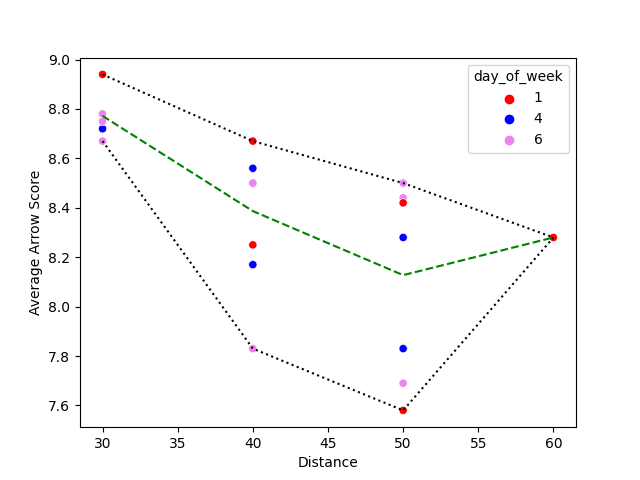
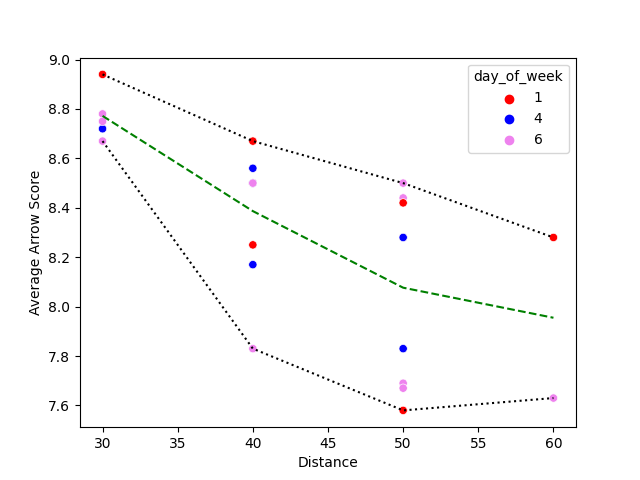
Post competition update

diff --git a/archery_predictor/README.md b/archery_predictor/README.md
@@ -352,4 +352,8 @@ $384.24 + 199.128 = 583.368 \approx 583$
 
 This score would be enough to achieve a Bowman 3rd Class classification.
 
-*After the competition:* (i will try to remember to update this)
+*After the competition:* 
+- 60 yards: 7.63 / 47.9%
+- 50 yards: 7.67 / 50%
+
+`:(`
